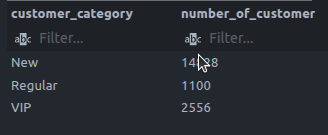
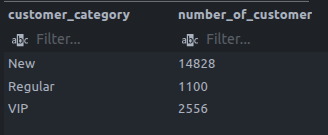
upload  report file

diff --git a/report.md b/report.md
@@ -1,0 +1,125 @@
+# Data Analysis Report: Global Sales & Customer Intelligence
+
+**Date:** March 14, 2026  
+**Project:** Medallion Architecture Data Pipeline (Gold Layer Analysis)
+
+---
+
+## 1. Executive Summary
+
+This report provides a strategic overview of store performance, customer demographics, and product trends based on data spanning 2010 to 2014. Key insights highlight the dominance of the **Bikes** category, the growing purchasing power of the **Australian** market, and a steady year-over-year increase in revenue and customer acquisition.
+
+---
+
+## 2. Exploration & Findings
+
+### First and Last Order Dates
+
+The analysis confirms that the operational data spans from 2010 to 2014. Specifically, the second analysis reveals a time range of approximately **3 years and 30 days**.
+
+![First and Last Order Dates](images/report_output/first&last_order_date.png)
+![Order Full Time Range](images/report_output/order_full_time_range.png)
+
+### Customer Age Range
+
+Demographic data reveals a broad age distribution among the customer base. The youngest and oldest customer records clarify an age span of approximately **70 years, 4 months, and 15 days**.
+
+![Customer Age Range](images/report_output/customer_age_range.png)
+
+### Key Measurement Exploration
+
+The following metrics provide a high-level view of our total scale, including total orders, store customers, product counts, total sales, and average pricing.
+
+![Key Measurements Exploration](images/report_output/measure_exploration.png)
+
+### Customers by Country
+
+The **USA** represents our largest customer segment, followed by **Australia** and the **United Kingdom**.
+
+![Customer by Country](images/report_output/customer_by_country.png)
+
+### Customers by Gender
+
+The data indicates that Male customers outnumber Female customers. However, a significant "Unknown" category exists for customers who chose not to identify their gender, which could introduce minor bias in gender-based targeting.
+
+![Customer by Gender](images/report_output/customer_by_gender.png)
+
+### Product Count by Category
+
+The store maintains a higher volume of products in the **Components** section compared to others. The sub-category exploration below highlights the specific breakdown of these parts.
+
+![Products by Category](images/report_output/products_by_cat.png)
+![Components Sub-Category Breakdown](images/report_output/Components_sub_cat.png)
+
+### Average Price per Category
+
+Bikes and Components are the most expensive categories, averaging over **$300**, while Clothing and Accessories remain budget-friendly at under **$25**.
+
+![Average Price per Category](images/report_output/price_per_category.png)
+
+### Top 5 Products Sold
+
+The top 5 most sold products are all variations of the **Mountain-200** bike, distinguished by different color options.
+
+![Top 5 Products Sold](images/report_output/top5_products_sold.png)
+
+### Revenue vs. Volume by Country
+
+While the **USA** leads in the total number of products sold, **Australia** generates higher total revenue. Deep-diving into the categories reveals that the USA has higher buying power for high-volume, lower-priced items, putting it in second place for total revenue despite the higher unit count.
+
+![Revenue and Products Sold per Country](images/report_output/revenue&products_sold_per_country.png)
+![Total Products by Country and Category](images/report_output/total_prod_by_country_category.png)
+
+### Regional Product Preferences (USA vs. Australia)
+
+The following analysis isolates the Top 5 products for our two largest markets. This comparison demonstrates that while both regions favor the Mountain-200 series, the specific model variations and quantities differ, reflecting unique regional consumer preferences and inventory demand.
+
+![Top 5 Sold Products USA vs AUS](images/report_output/top5_sold_products_USA_AUS.png)
+
+### Top 3 Customers by Orders Placed
+
+This ranking identifies our most frequent shoppers by their total order count and their position in the global customer list.
+
+![Top 3 Customers by Orders Placed](images/report_output/top3_customer_order_placed.png)
+
+### Annual Sales Performance
+
+Sales have increased gradually year-over-year, with revenue, customer counts, and quantities sold all showing growth from 2010 to 2013.
+
+![Annual Sales Trends](images/report_output/sales&customer&quantities_per_year.png)
+
+### Monthly Sales Seasonality (Running Total)
+
+Analysis of monthly sales shows a steady climb throughout the year. **December** accounts for the highest sales volume, while **January** serves as the lowest point.
+
+![Total Running Sales per Month](images/report_output/total_running_sales_per_months.png)
+
+### Total Sales Percentage by Category
+
+The **Bikes** category is the dominant force in our revenue model, accounting for **96%** of all sales across our stores.
+
+![Total Sales Percentage by Category](images/report_output/total_sales_percentage_by_category.png)
+
+---
+
+## 3. Data Segmentation
+
+### Product Tiering (By Price)
+
+Products are categorized into three cost tiers: **Budget** (Below $100), **Mid-Range** ($100 - $500), and **Premium** (Above $500).
+
+![Product Cost Range Segmentation](images/report_output/cost_range_products.png)
+
+### Customer Segmentation (By Spend)
+
+Customers are segmented into **New**, **Regular**, and **VIP** tiers based on their total lifetime spending.
+
+![Customer Type Segmentation](images/report_output/customer_type_seg.png)
+
+---
+
+## 4. Conclusion
+
+The analysis confirms a growing, bike-centric business. Strategic focus should remain on the high-value Australian market and peak-season preparation for December, while exploring growth in the lower-cost accessories categories.
+
+_Report ending with data-driven visualizations to assist the management team in final decision-making._
